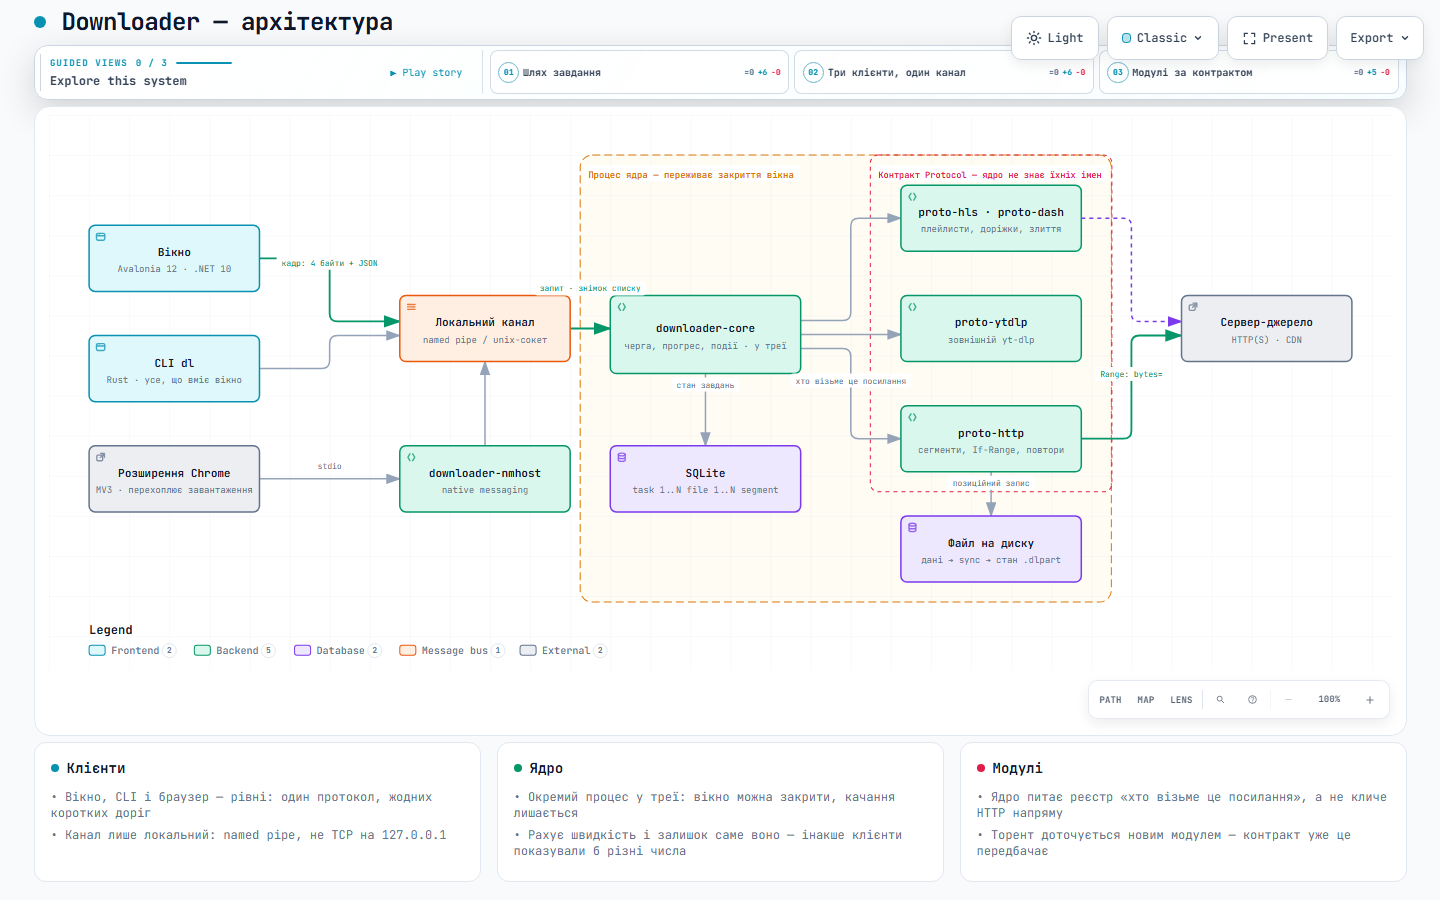
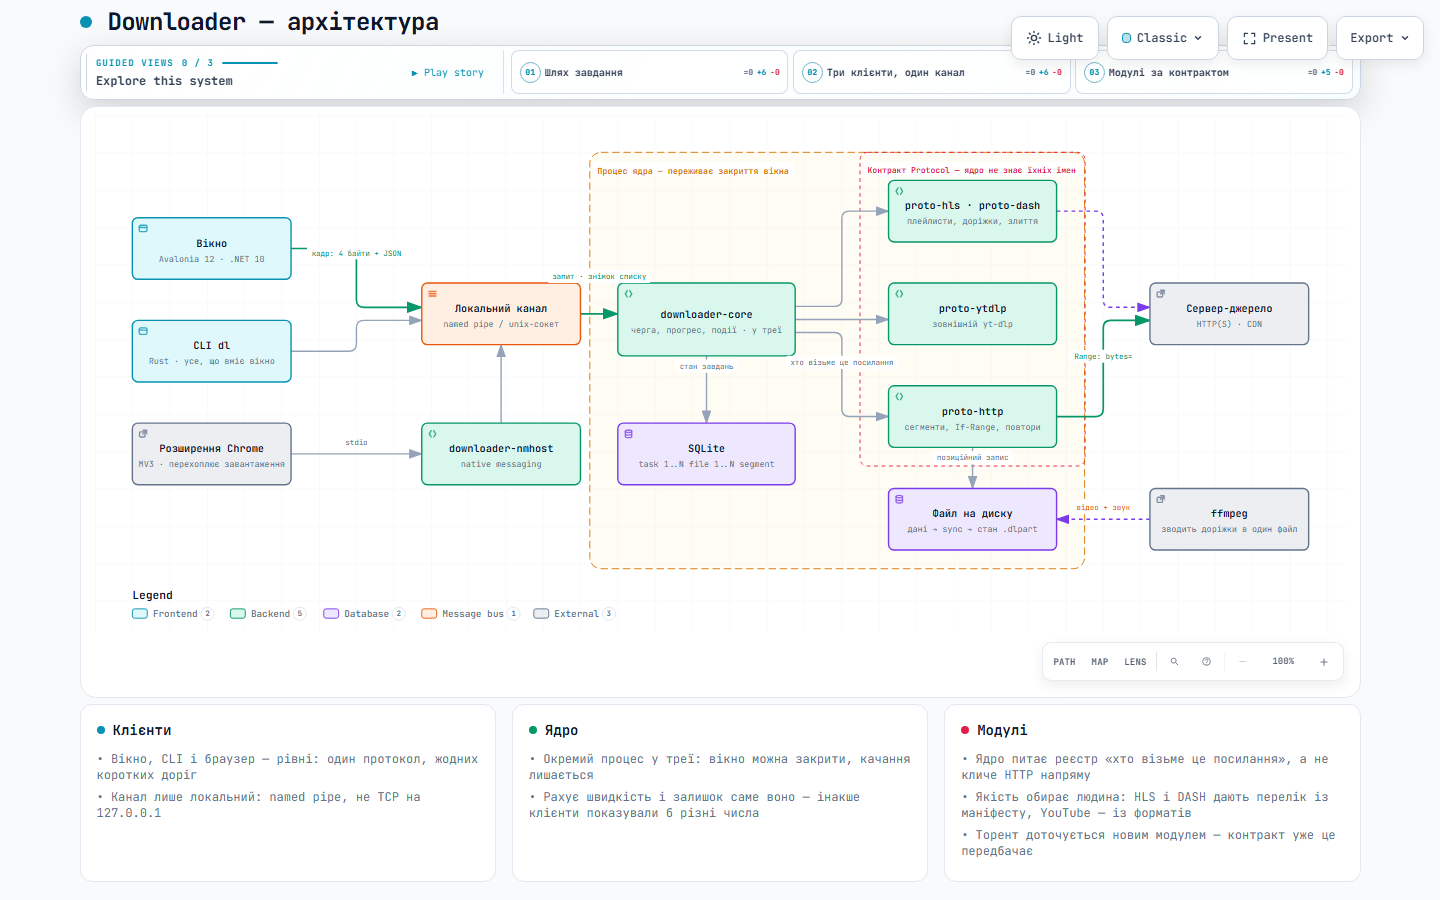
docs: ffmpeg на схемі архітектури
Він став частиною поставки й частиною шляху файла: без нього DASH і YouTube
не дають цілого відео. Показаний там, де працює насправді — між модулями й
готовим файлом на диску.

Картку про модулі доповнено вибором якості: HLS і DASH беруть перелік із
маніфесту, YouTube — із форматів.

diff --git a/docs/architecture.html b/docs/architecture.html
@@ -5173,6 +5173,7 @@ OTHER DEALINGS IN THE FONT SOFTWARE.
         <path data-edge-from="http" data-edge-to="origin" data-edge-label="Range: bytes=" data-edge-key="9" data-edge-id="http-origin" data-composition-points="1030,323;1080,323;1080,220;1130,220" d="M 1030 323 L 1072 323 Q 1080 323 1080 315 L 1080 228 Q 1080 220 1088 220 L 1130 220" class="a-emphasis" stroke-width="1.8" marker-end="url(#arrowhead-emphasis)"/>
         <path data-edge-from="stream" data-edge-to="origin" data-edge-key="10" data-edge-id="stream-origin" data-composition-points="1030,103;1080,103;1080,206;1130,206" d="M 1030 103 L 1072 103 Q 1080 103 1080 111 L 1080 198 Q 1080 206 1088 206 L 1130 206" class="a-dashed" stroke-width="1.5" marker-end="url(#arrowhead-dashed)"/>
         <path data-edge-from="http" data-edge-to="files" data-edge-label="позиційний запис" data-edge-key="11" data-edge-id="http-files" data-composition-points="940,356;940,400" d="M 940 356 L 940 400" class="a-default" stroke-width="1.5" marker-end="url(#arrowhead)"/>
+        <path data-edge-from="ffmpeg" data-edge-to="files" data-edge-label="відео + звук" data-edge-key="12" data-edge-id="ffmpeg-files" data-composition-points="1130,433;1030,433" d="M 1130 433 L 1030 433" class="a-dashed" stroke-width="1.5" marker-end="url(#arrowhead-dashed)"/>
 
         <!-- Components -->
         <g id="node-ext" data-node-id="ext" data-node-label="Розширення Chrome" tabindex="0" role="button" aria-label="Focus Розширення Chrome, MV3 · перехоплює завантаження, Architecture component" aria-pressed="false" data-node-kind="external" data-node-sublabel="MV3 · перехоплює завантаження" data-node-context="Architecture component">
@@ -5323,6 +5324,19 @@ OTHER DEALINGS IN THE FONT SOFTWARE.
         <text data-detail="fine" x="940" y="458" class="t-database" font-size="7" text-anchor="middle">Mark-of-the-Web</text>
         </g>
 
+        <g id="node-ffmpeg" data-node-id="ffmpeg" data-node-label="ffmpeg" tabindex="0" role="button" aria-label="Focus ffmpeg, зводить доріжки в один файл, Architecture component" aria-pressed="false" data-node-kind="external" data-node-sublabel="зводить доріжки в один файл" data-node-tag="LGPL, в інсталяторі" data-node-context="Architecture component">
+          <title>ffmpeg · зводить доріжки в один файл · Architecture component · LGPL, в інсталяторі</title>
+          <rect x="1130" y="400" width="170" height="66" rx="6" class="c-mask"/>
+          <rect x="1130" y="400" width="170" height="66" rx="6" class="c-external" stroke-width="1.5"/>
+          <g aria-hidden="true" data-semantic-sigil="external" class="semantic-sigil s-external" transform="translate(1136 406) scale(0.6875)">
+            <rect x="2.5" y="5" width="8.5" height="8" rx="1.5"/>
+            <path d="M8 2.5h5.5V8M13.5 2.5 7.5 8.5"/>
+          </g>
+          <text data-node-label="" data-detail-anchor="" x="1215" y="431" class="t-primary" font-size="11" font-weight="600" text-anchor="middle">ffmpeg</text>
+        <text data-detail="context" x="1215" y="447" class="t-muted" font-size="9" text-anchor="middle">зводить доріжки в один файл</text>
+        <text data-detail="fine" x="1215" y="458" class="t-external" font-size="7" text-anchor="middle">LGPL, в інсталяторі</text>
+        </g>
+
         <!-- Connection labels -->
         <g data-detail="context" data-edge-from="ui" data-edge-to="ipc" data-edge-label="кадр: 4 байти + JSON" data-edge-key="0" data-edge-id="ui-ipc">
           <rect x="227" y="140.5" width="106" height="14" rx="3" class="c-mask"/>
@@ -5356,6 +5370,10 @@ OTHER DEALINGS IN THE FONT SOFTWARE.
         <g data-detail="context" data-edge-from="http" data-edge-to="files" data-edge-label="позиційний запис" data-edge-key="11" data-edge-id="http-files">
           <rect x="896.6" y="360" width="86.8" height="14" rx="3" class="c-mask"/>
           <text x="940" y="370" class="t-muted" font-size="8" text-anchor="middle">позиційний запис</text>
+        </g>
+        <g data-detail="context" data-edge-from="ffmpeg" data-edge-to="files" data-edge-label="відео + звук" data-edge-key="12" data-edge-id="ffmpeg-files">
+          <rect x="1046.2" y="413" width="67.6" height="14" rx="3" class="c-mask"/>
+          <text x="1080" y="423" class="t-messagebus" font-size="8" text-anchor="middle">відео + звук</text>
         </g>
 
         <!-- Boundary labels (foreground masks keep routes out of titles) -->
@@ -5608,6 +5626,7 @@ OTHER DEALINGS IN THE FONT SOFTWARE.
         </div>
         <ul>
           <li>&bull; Ядро питає реєстр «хто візьме це посилання», а не кличе HTTP напряму</li>
+          <li>&bull; Якість обирає людина: HLS і DASH дають перелік із маніфесту, YouTube — із форматів</li>
           <li>&bull; Торент доточується новим модулем — контракт уже це передбачає</li>
         </ul>
       </div>
